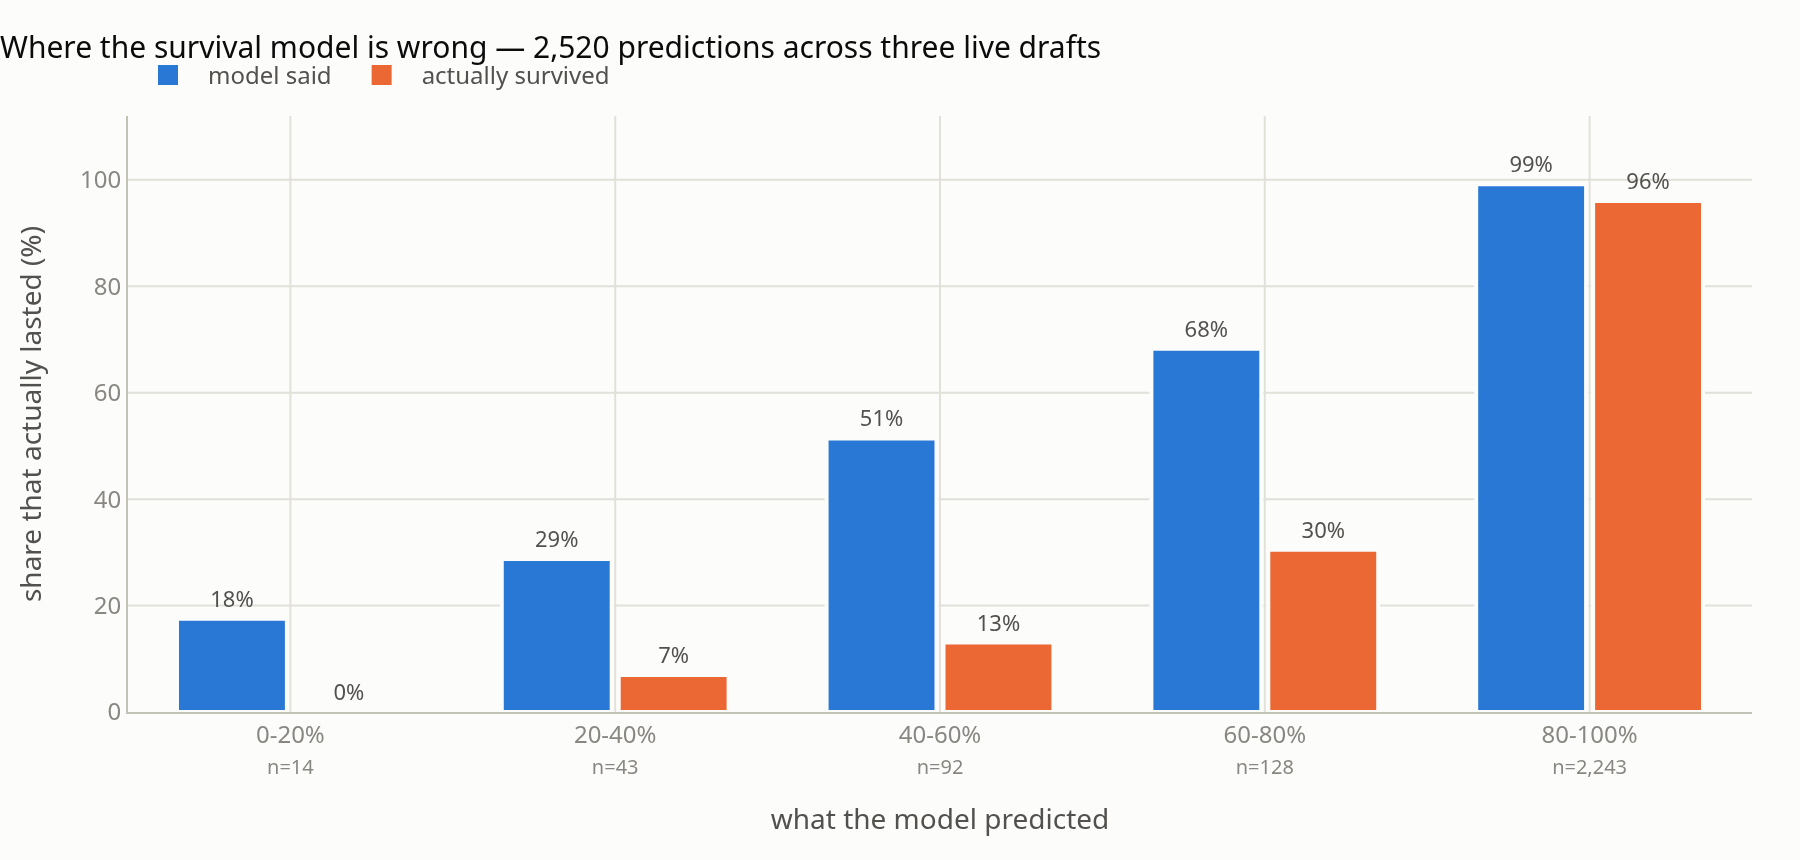
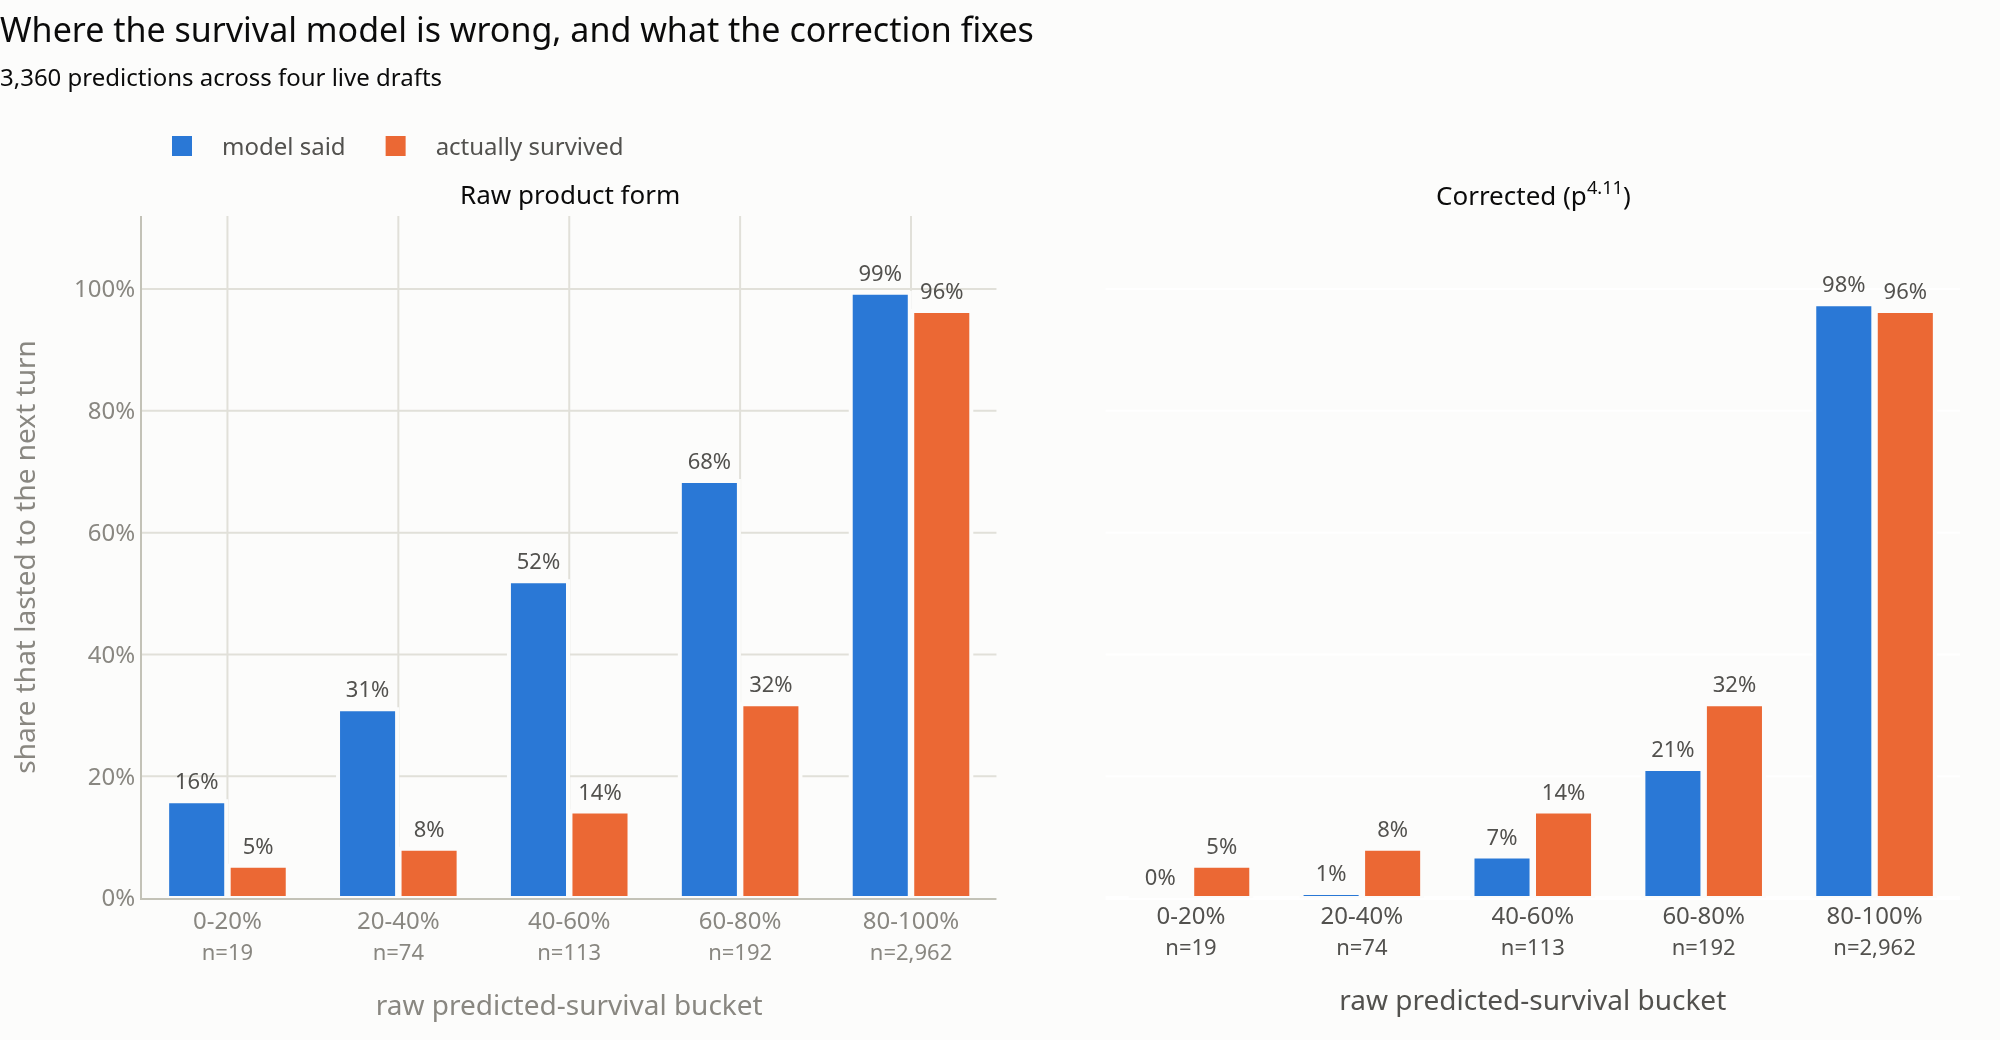
Correct the survival section before publishing it
blog.md was written in the same commit that shipped survival_gamma = 4.11
but described the state before it: "I have not fitted a correction", three
drafts, 2,520 predictions. The linked repo plainly applies the correction,
so the post contradicted its own source -- in the section arguing that you
should publish your miscalibration.

Rewritten to the arc FINDINGS.md already records: three drafts made a single
exponent overshoot, a fourth made it fit, gamma = 4.11 improves every bucket
(mean absolute calibration error 0.066 -> 0.021). The overclaim was "one knob
cannot work", not the decision to publish the bias, and the section now says
so -- along with the caveat that gamma likely wants to vary with league size.

The figure was stale too, and had no generator. scripts/plot_calibration.py
renders it from data/calibration_buckets.csv so the picture and the
coefficient cannot drift apart again. Two panels rather than three series:
src/theme ships two validated categorical hues and documents faceting as the
remedy, so raw and corrected each face the same truth in their own panel.
Palette re-validated (CVD dE 24.7 protan, 33.6 normal).

Also: 146 -> 163 tests, and the fourth draft was my real league, not a mock
room.

Claude-Session: https://claude.ai/code/session_01SYUXKAT1sj14Yw3ZUxnmTn

diff --git a/scripts/plot_calibration.py b/scripts/plot_calibration.py
@@ -1,0 +1,134 @@
+#!/usr/bin/env python3
+"""Render the survival-calibration figure used in README/blog from measured data.
+
+The other figures in ``docs/assets`` were made ad hoc, which is how the published
+one drifted a draft behind the model it describes. This one is a script so the
+picture and the coefficient cannot disagree again: refit ``survival_gamma``,
+update ``data/calibration_buckets.csv``, re-run this.
+
+Two panels rather than three series. Raw, corrected and actual are three
+quantities, but ``src/theme`` deliberately ships two validated categorical hues
+and says why -- a third would have to clear colour-vision separation against
+both of them, and faceting is the remedy the theme already recommends. So each
+panel holds one prediction against the same truth, and the correction is read as
+the gap closing between panels.
+
+Usage:
+    python scripts/plot_calibration.py [--theme light|dark] [--out PATH]
+"""
+from __future__ import annotations
+
+import argparse
+import csv
+import sys
+from pathlib import Path
+
+from plotly.subplots import make_subplots
+import plotly.graph_objects as go
+
+sys.path.insert(0, str(Path(__file__).resolve().parents[1]))
+from src.theme import FONT, layout_defaults, palette  # noqa: E402
+
+ROOT = Path(__file__).resolve().parents[1]
+BUCKETS = ROOT / "data" / "calibration_buckets.csv"
+DEFAULT_OUT = ROOT / "docs" / "assets" / "survival-calibration.png"
+
+
+def load_buckets(path: Path) -> list[dict]:
+    """Read the committed bucket table, ignoring the provenance header."""
+    with path.open() as fh:
+        rows = list(csv.DictReader(line for line in fh if not line.startswith("#")))
+    if not rows:
+        raise SystemExit(f"no rows in {path}")
+    for r in rows:
+        r["n"] = int(r["n"])
+        for k in ("predicted", "actual", "corrected"):
+            r[k] = float(r[k])
+    return rows
+
+
+def build(rows: list[dict], theme: str) -> go.Figure:
+    c = palette(theme)
+    labels = [r["bucket"] for r in rows]
+    total = sum(r["n"] for r in rows)
+
+    # n varies by three orders of magnitude across buckets; saying so under each
+    # tick is what stops the tiny, badly-calibrated buckets from reading as if
+    # they carried the same weight as the 80-100% one.
+    ticks = [f"{b}<br><span style='font-size:11px'>n={r['n']:,}</span>"
+             for b, r in zip(labels, rows)]
+
+    fig = make_subplots(
+        rows=1, cols=2, shared_yaxes=True, horizontal_spacing=0.06,
+        subplot_titles=("Raw product form", "Corrected (p<sup>4.11</sup>)"),
+    )
+
+    for col, key in ((1, "predicted"), (2, "corrected")):
+        pred = [r[key] * 100 for r in rows]
+        act = [r["actual"] * 100 for r in rows]
+        fig.add_bar(
+            x=ticks, y=pred, name="model said", legendgroup="model",
+            showlegend=(col == 1), marker_color=c["series_1"],
+            text=[f"{v:.0f}%" for v in pred], textposition="outside",
+            textfont={"color": c["text_secondary"], "size": 11},
+            hovertemplate="model said %{y:.1f}%<extra></extra>",
+            row=1, col=col,
+        )
+        fig.add_bar(
+            x=ticks, y=act, name="actually survived", legendgroup="actual",
+            showlegend=(col == 1), marker_color=c["series_2"],
+            text=[f"{v:.0f}%" for v in act], textposition="outside",
+            textfont={"color": c["text_secondary"], "size": 11},
+            hovertemplate="actually survived %{y:.1f}%<extra></extra>",
+            row=1, col=col,
+        )
+
+    fig.update_layout(**layout_defaults(theme))
+    fig.update_layout(
+        title={
+            "text": (
+                "Where the survival model is wrong, and what the correction fixes"
+                f"<br><span style='font-size:12px'>{total:,} predictions across "
+                "four live drafts</span>"
+            ),
+            "font": {"family": FONT, "color": c["text"], "size": 17},
+            "x": 0, "xanchor": "left", "y": 0.96,
+        },
+        barmode="group", bargap=0.28, bargroupgap=0.04,
+        margin={"l": 62, "r": 20, "t": 108, "b": 64},
+        legend={"y": 1.06},
+        width=1000, height=520,
+    )
+    # 2px surface gap between adjacent fills, per the mark spec.
+    fig.update_traces(marker_line_color=c["surface"], marker_line_width=2,
+                      cliponaxis=False)
+    # Both series are a share that lasted -- one predicted, one observed -- so the
+    # axis must not say "actually". Buckets are cut on the raw prediction in both
+    # panels; that is what makes the two panels comparable.
+    fig.update_yaxes(range=[0, 112], ticksuffix="%", row=1, col=1,
+                     title_text="share that lasted to the next turn")
+    fig.update_yaxes(range=[0, 112], row=1, col=2)
+    for col in (1, 2):
+        fig.update_xaxes(title_text="raw predicted-survival bucket", row=1, col=col)
+    for ann in fig.layout.annotations[:2]:
+        ann.font.update(color=c["text"], size=13)
+    return fig
+
+
+def main() -> None:
+    ap = argparse.ArgumentParser(description=__doc__)
+    ap.add_argument("--theme", default="light", choices=("light", "dark"))
+    ap.add_argument("--out", type=Path, default=DEFAULT_OUT)
+    ap.add_argument("--scale", type=float, default=2.0, help="PNG pixel ratio")
+    args = ap.parse_args()
+
+    rows = load_buckets(BUCKETS)
+    fig = build(rows, args.theme)
+    args.out.parent.mkdir(parents=True, exist_ok=True)
+    fig.write_image(str(args.out), scale=args.scale)
+    print(f"wrote {args.out} ({sum(r['n'] for r in rows):,} predictions, "
+          f"{len(rows)} buckets, {args.theme})")
+
+
+if __name__ == "__main__":
+    main()

diff --git a/blog.md b/blog.md
@@ -205,42 +205,64 @@ The failure is not Petersen's. His metric measures what he says it measures. It
 is a lesson about substituting a proxy into a formula and inheriting its
 authority without inheriting its meaning.
 
-### 2. The survival model is confidently wrong in the middle
+### 2. The survival model was confidently wrong in the middle
 
 `--replay` re-runs a finished draft pick by pick and scores every survival
-prediction against what actually happened. Pooled across three live drafts —
-2,520 predictions:
+prediction against what actually happened. Pooled across four completed drafts —
+3,360 predictions:
 
-![Predicted survival against actual, bucketed](docs/assets/survival-calibration.png)
+![Predicted survival against actual, before and after the correction](docs/assets/survival-calibration.png)
 
-The 80–100% bucket is nearly perfect: 99% predicted, 96% actual. That bucket is
-also 89% of all predictions, which is why the headline Brier score (**0.052–0.070**
-per draft) looks respectable and the overall bias is only **+6.6 points
-optimistic** (94.2% predicted against 87.6% actual).
+Look at the left panel first. The 80–100% bucket is nearly perfect: 99%
+predicted, 96% actual. That bucket is also 88% of all predictions, which is why
+the headline Brier score looks respectable and the overall bias is only **+6.7
+points optimistic**.
 
-The middle is a disaster. Players the model called 40–60% survived **13%** of the
-time. Players it called 60–80% survived **30%**.
+The middle is a disaster. Players the model called 40–60% survived **14%** of the
+time. Players it called 60–80% survived **32%**.
 
 And the direction is exactly what the model's own assumption predicts. Survival
 multiplies per-pick probabilities **as if the picks were independent**. Real
 drafts have *runs* — three receivers in four picks, because managers watch each
 other. Independence is least damaging at the extremes (nobody wants him; everybody
 does) and most damaging in the contested middle, which is precisely where the
-chart falls apart.
+left panel falls apart.
 
-I have not fitted a correction, and the reason is instructive. The obvious one is
-a single exponent — replace *p* with *p^γ*. Solving for the γ that matches the
-overall mean gives **γ ≈ 4**, and applying it lands the middle buckets on the
-*other* side of the truth: the 60–80% bucket goes from 68% predicted to 22%
-against an actual 30%, and 40–60% goes from 51% to 7% against an actual 13%. One
-knob cannot fix a bias whose size depends on where you are in the range, and
-three drafts is roughly forty-five independent turns — nowhere near enough to fit
-something shaped better than that.
+The fix is a single exponent — replace *p* with *p^γ*. An exponent rather than a
+linear shrink because *p^γ* fixes both 0 and 1, and a turn boundary ("the window
+is empty, he is certainly still there") has to stay exactly 1.0.
 
-So the bias is documented instead. `--replay` appends to a calibration log after
-every draft, and the correction waits for evidence. Publishing the
-miscalibration is more useful than papering over it: a number you know is seven
-points optimistic is usable, and one you believe is not.
+**The interesting part is that this was not fittable when I first wrote it up.**
+With three drafts, solving for the γ that matched the overall mean gave γ ≈ 4 and
+threw the middle buckets onto the *other* side of the truth — the 60–80% bucket
+went from 68% predicted to 22% against an actual 30%. I concluded that one knob
+could not fix a bias whose size depends on where you sit in the range, published
+the miscalibration instead, and left it.
+
+That conclusion was drawn from too little data, not from too simple a model. A
+fourth draft — 840 more predictions — changed the answer. At **γ = 4.11** the
+same one-knob correction improves **every bucket**: observation-weighted mean
+absolute calibration error **0.066 → 0.021**, mean bias **+0.066 → +0.005**, mean
+Brier **0.061 → 0.044**. That is the right panel.
+
+Two things I would not have predicted. The correction still *undershoots* the low
+buckets — it just undershoots by much less than the raw form overshot. And it
+slightly **worsens** the one 10-team standard-scoring draft (Brier 0.071 → 0.074)
+while clearly helping the three 12-team half-PPR ones, which suggests γ wants to
+vary with league size. Four drafts is nowhere near enough to fit that, so it
+stays a single number with a caveat attached.
+
+One rule falls out of this that is easy to get backwards: **never tune γ against
+`--mock`.** Mock opponents are sampled from the selection model itself, so a
+simulated draft contains none of the herding the correction exists for and will
+score it as a regression. Live drafts are the only valid evidence, which is why
+`--replay` appends to a committed calibration log after every one.
+
+The lesson survived the fix, and it is not the one I expected to write. Publishing
+the miscalibration was still right — a number you know is seven points optimistic
+is usable, and one you merely believe is not. But "I have not fitted a correction
+and here is why one cannot work" was an overclaim dressed up as rigour. The
+honest version was always "not yet, on this much data."
 
 ### 3. A scoring bug that only a real draft could find
 
@@ -356,14 +378,14 @@ Sleeper on the third.
 
 ## Did it work?
 
-Four live mock drafts, in order:
+Four live drafts, in order — three public mock rooms, then my actual league:
 
 | Draft | League | Finish | Grade | RB points vs league mean |
 |---|---|---|---|---|
 | 1 | 10-team | 1st | A+ | — |
 | 2 | 12-team | 6th | B− | −151 |
 | 3 | 12-team | 4th | B− | −129 |
-| 4 | 12-team, slot 12 | **3rd** | **A** | **−23** |
+| 4 | 12-team, slot 12 — **real league** | **3rd** | **A** | **−23** |
 
 The improvement between draft 3 and draft 4 was not a smarter algorithm. It was
 the flex fix, which stopped the engine from spending premium picks on a second
@@ -394,7 +416,9 @@ genuinely interesting bug came from a real draft with real humans.
 **Publish the miscalibration.** The survival chart is the least flattering thing
 in this repo and the most useful thing in it. Documenting where a model is wrong
 is not an admission that it is broken; it is the difference between a number you
-can reason with and a number you can only believe.
+can reason with and a number you can only believe. And keep publishing it: the
+log I kept because I could not fix the bias is exactly what made a fourth draft
+enough to fix it.
 
 **Look at the chart.** Two visual bugs — a sort order that silently did nothing
 and a label that ran off the frame — survived every test I had and died the
@@ -420,5 +444,5 @@ python scripts/experiment_first_two.py      # the first-two-picks experiment
 python main.py --replay <draft_id>          # survival calibration on a finished draft
 
 python main.py --web --mock --slot 12       # the dashboard, on a simulated draft
-pytest -q                                   # 146 tests
+pytest -q                                   # 163 tests
 ```

diff --git a/CLAUDE.md b/CLAUDE.md
@@ -48,6 +48,9 @@ pytest -q                                      # 163 tests
 - `src/replay.py` — scores survival predictions against a completed draft; appends to a
   calibration log so evidence accumulates across drafts.
 - `scripts/fetch_*.py` — the two data builders. Both write frozen CSV snapshots.
+- `scripts/plot_calibration.py` — renders `docs/assets/survival-calibration.png` from
+  `data/calibration_buckets.csv`. The other figures were made ad hoc, which is how the
+  published one drifted a draft behind the model; this one regenerates.
 - `scripts/experiment_*.py` — standalone, re-runnable evidence for two claims in the
   README and blog: that CV measured the wrong thing, and that "take running backs early"
   is slot-dependent. Neither touches the network.
@@ -59,6 +62,8 @@ pytest -q                                      # 163 tests
   league member's display name, and those are other people.
 - `data/do_not_draft.txt` — personal exclusions, one name per line. **Committed**, unlike
   the rest of `data/`: it is a judgement, not a generated artifact.
+- `data/calibration_buckets.csv` — bucket-level survival evidence behind
+  `survival_gamma` and its figure. **Committed**, same reasoning as the log above.
 - `data/` — everything else is generated, gitignored and rebuildable.
 
 ## Key decisions / constraints
